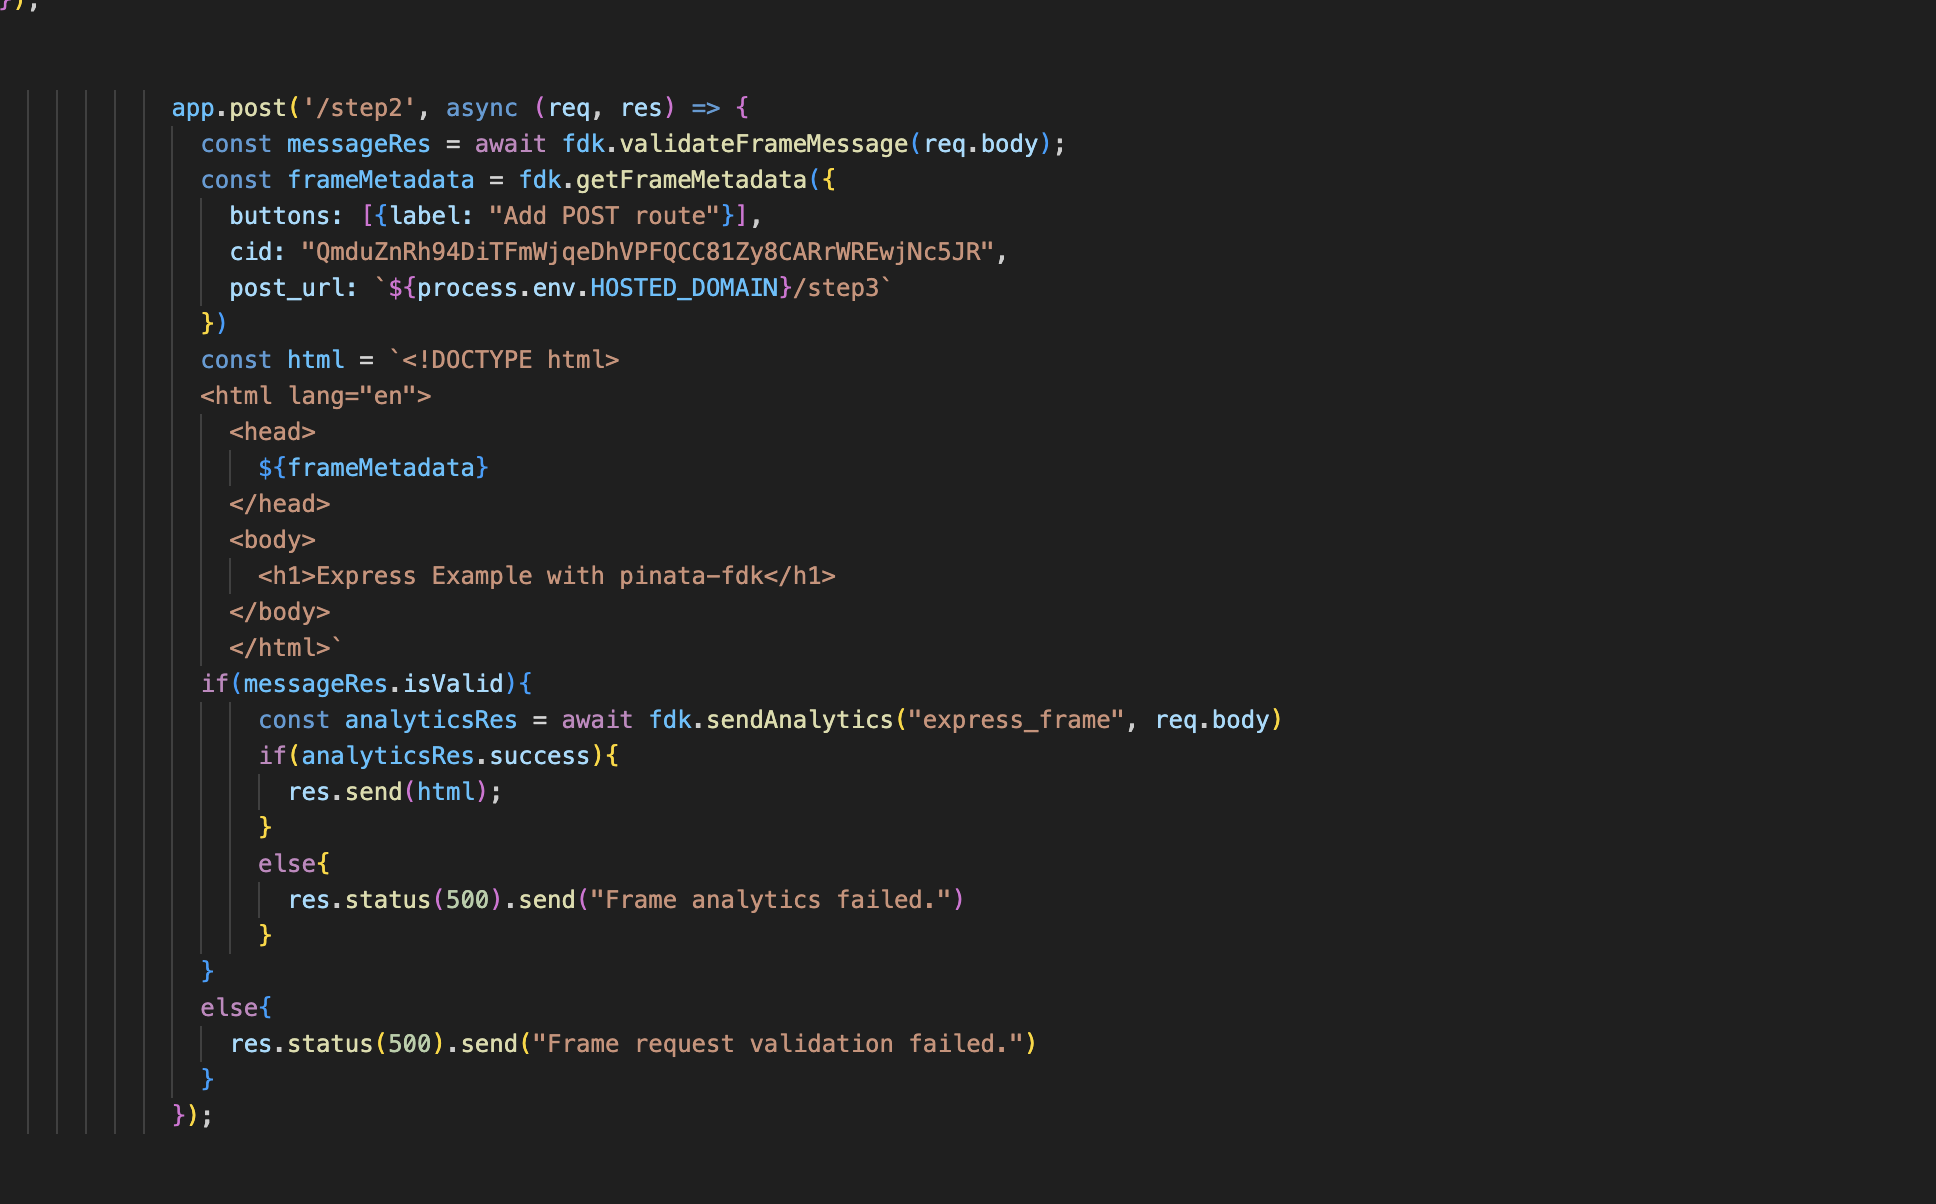
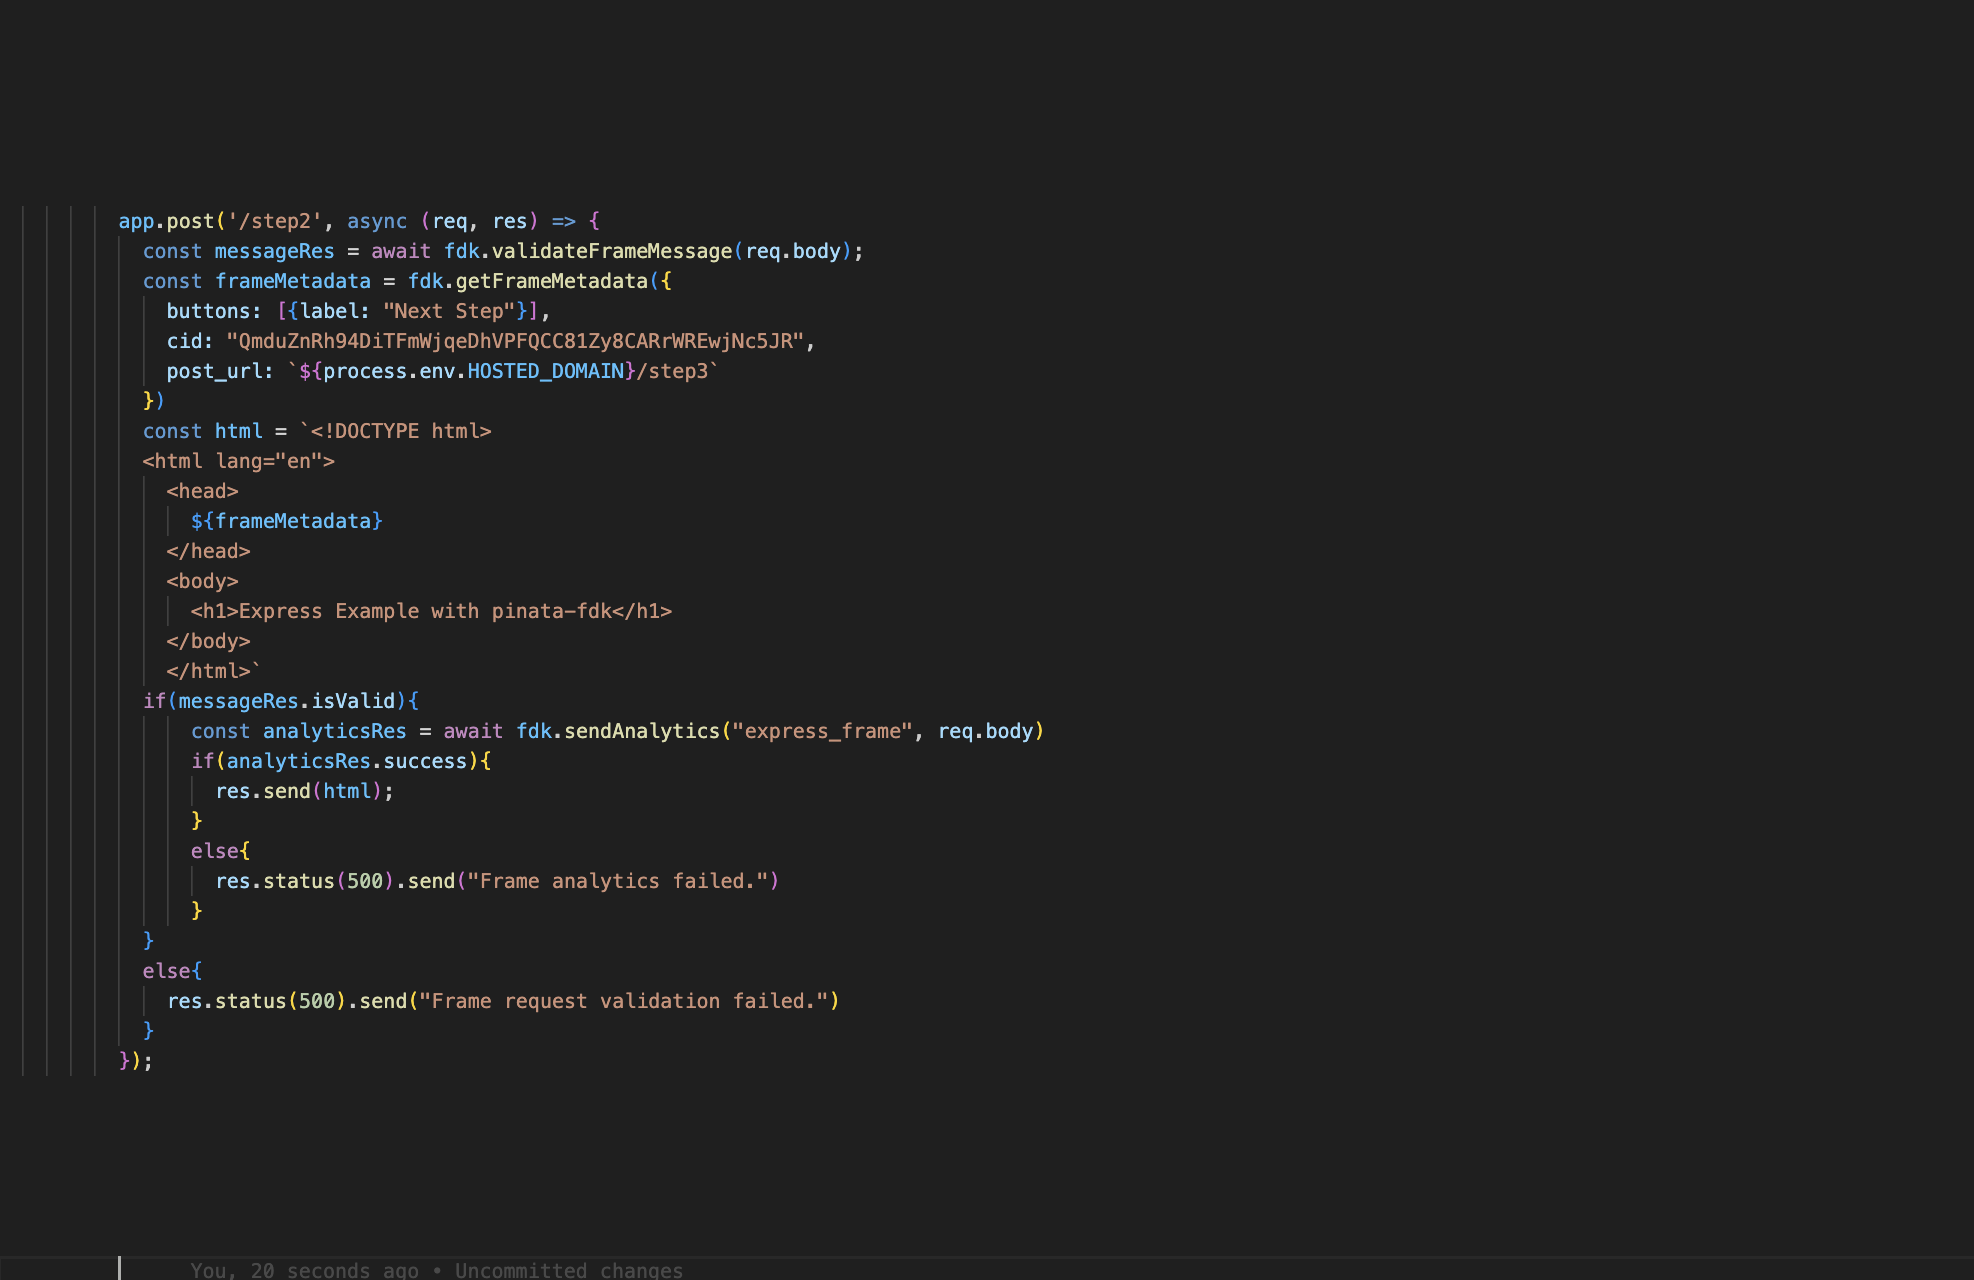
updates cid

diff --git a/index.js b/index.js
@@ -61,7 +61,7 @@ app.post('/step2', async (req, res) => {
   const messageRes = await fdk.validateFrameMessage(req.body);
   const frameMetadata = fdk.getFrameMetadata({
     buttons: [{label: "Next Step"}], 
-    cid: "QmbuKjs9wjPj63PLEtBwBCo7WYAYQZ2LFck5ZyHuoaLaaJ", 
+    cid: "QmduZnRh94DiTFmWjqeDhVPFQCC81Zy8CARrWREwjNc5JR", 
     post_url: `${process.env.HOSTED_DOMAIN}/step3`
   })
   const html = `<!DOCTYPE html>
@@ -87,11 +87,12 @@ app.post('/step2', async (req, res) => {
   }
 });
 
+
 app.post('/step3', async (req, res) => {
   const messageRes = await fdk.validateFrameMessage(req.body);
   const frameMetadata = fdk.getFrameMetadata({
     buttons: [{label: "View Source Code", action: "post_redirect"}], 
-    cid: "QmbuKjs9wjPj63PLEtBwBCo7WYAYQZ2LFck5ZyHuoaLaaJ", 
+    cid: "QmaN92zcJAHPCUSjc6XdyUvcx3VM9z3nba34JELEXsehta", 
     post_url: `${process.env.HOSTED_DOMAIN}/redirect`
   })
   const html = `<!DOCTYPE html>
